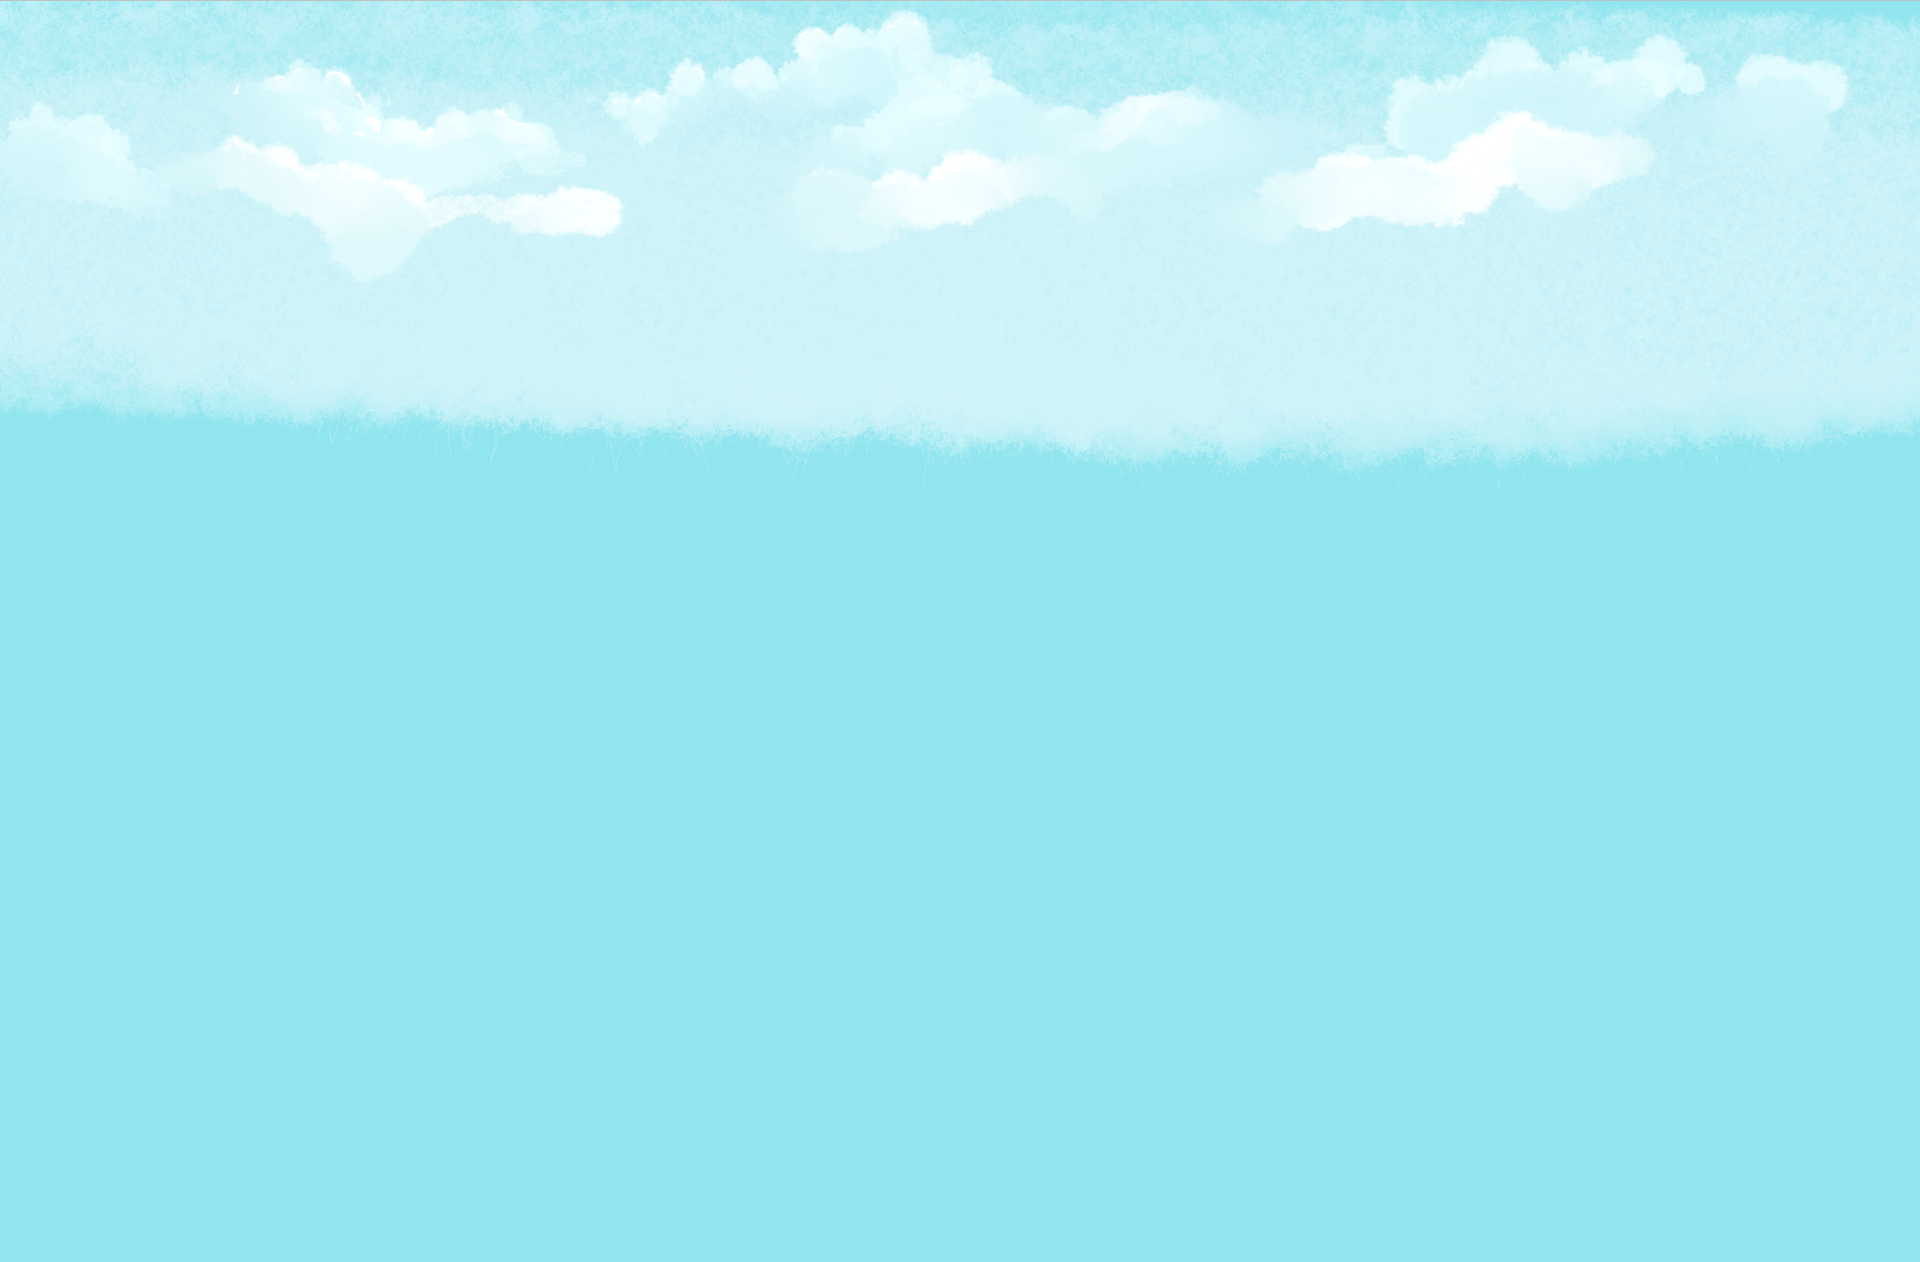
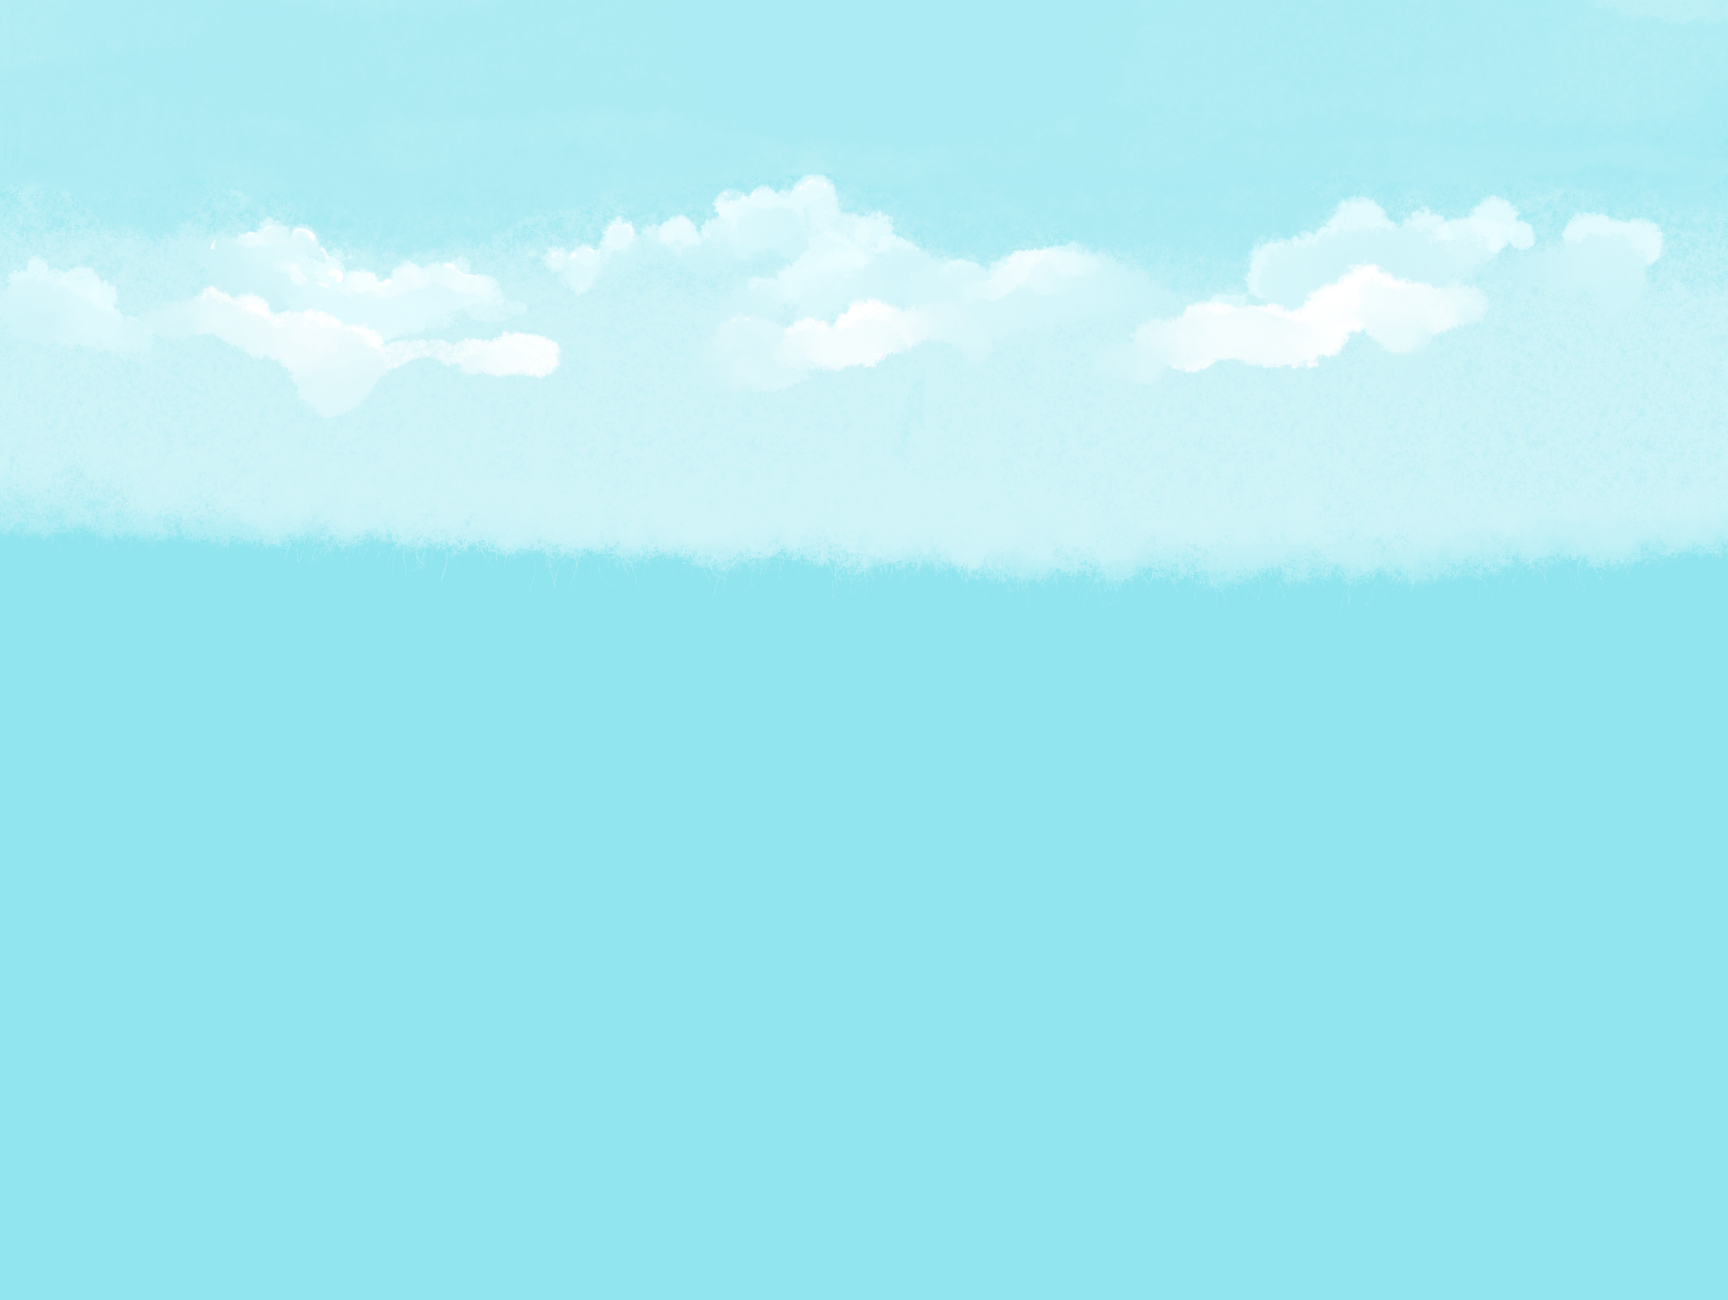
Parallax tweaks

Changed region(s): [[0.0, 0.0, 1.0, 0.4635], [0.0312, 0.2163, 0.0625, 0.2472]]

diff --git a/src/routes/+page.svelte b/src/routes/+page.svelte
@@ -1,19 +1,18 @@
 <script lang="ts">
-	import { onMount } from 'svelte';
-	import { fade } from 'svelte/transition';
-
 	let width = $state(1920);
 	let height = $state(1080);
 	let scroll = $state(0);
 
 	// onMount(() => {
 	// 	// give the browser a tick to render
-	// 	requestAnimationFrame(() => {
-	// 		window.scrollTo({
-	// 			top: window.innerHeight * 0.2, // for example, 80% down
-	// 			behavior: 'smooth'
+	// 	setTimeout(() => {
+	// 		requestAnimationFrame(() => {
+	// 			window.scrollTo({
+	// 				top: window.innerHeight * 0.2, // for example, 80% down
+	// 				behavior: 'smooth'
+	// 			});
 	// 		});
-	// 	});
+	// 	}, 1000);
 	// });
 
 	const configWidth = 2696;
@@ -23,7 +22,7 @@
 	const parallaxHeight = $derived(height);
 	const parallaxWidth = $derived(parallaxHeight * configAspectRatio);
 
-	const aw_shit = $derived(scroll / height > 0.6);
+	const aw_shit = $derived(scroll / height > 0.75);
 
 	const moo_start: [number, number] = $derived([-10, 20]);
 	const moo_end: [number, number] = $derived([80, -100]);
@@ -37,11 +36,8 @@
 		return [Lerp(from[0], to[0], t), Lerp(from[1], to[1], t)];
 	}
 
-	/*style:top="{Math.max(c.offset[1] * configAspectRatio + scroll * c.speed, 0)}px"*/
-
 	const parallaxConfig = {
-		'sky.png': { offset: [0, 0], max: [0, 0], speed: 0.99, visible: true, scale: 1.0 },
-		'far_mountains.png': { offset: [0, 0], max: [0, 0], speed: 0.95, visible: true, scale: 1.0 },
+        'far_mountains.png': { offset: [0, 0], max: [0, 0], speed: 0.93, visible: true, scale: 1.0 },
 		'near_mountains.png': { offset: [0, 0], max: [0, 0], speed: 0.9, visible: true, scale: 1.0 },
 		'trees.png': { offset: [0, 0], max: [0, 0], speed: 0.8, visible: true, scale: 1.0 },
 		'moo.png': { offset: moo_start, max: [0, 0], speed: 0.7, visible: true, scale: 1.0 },
@@ -53,8 +49,7 @@
 		'goldy.png': { offset: [0, 0], max: [0, 0], speed: 0.2, visible: true, scale: 1.0 },
 		'hen.png': { offset: [0, 0], max: [0, 0], speed: 0.1, visible: true, scale: 1.0 },
 		'aw_shit.png': { offset: [0, 0], max: [0, 0], speed: 0.1, visible: false, scale: 1.0 },
-		'bottom.png': { offset: [0, 200], max: [0, 50], speed: -0.4, visible: true, scale: 1.0 },
-		'aw_my_gawd.png': { offset: [0, 0], max: [0, 0], speed: 0.0, visible: true, scale: 1.0 }
+		'bottom.png': { offset: [0, 200], max: [0, 50], speed: -0.4, visible: true, scale: 1.0 }
 	};
 
 	$effect(() => {
@@ -66,8 +61,13 @@
 <svelte:window bind:outerWidth={width} bind:outerHeight={height} bind:scrollY={scroll} />
 
 <main class="main">
-	<div class="title" style:top="calc(25vh + {scroll * 0.5}px)">GoldenHorn '25</div>
 	<div class="parallax">
+		<div
+			class="sky"
+			style:background-image="url('./images/sky.png')"
+            style:background-size="{parallaxWidth}px {parallaxHeight}px"
+            style:top="calc({scroll * 1.0}px)"
+		></div>
 		{#each Object.entries(parallaxConfig) as [name, c], i}
 			<div
 				class="parallax-layer"
@@ -80,9 +80,26 @@
 					c.max[1]
 				)}px)"
 				style:scale={c.scale}
+				style:z-index={i}
 			></div>
 		{/each}
 	</div>
+	<div
+		class="parallax-layer"
+		style:background-image="url('./images/aw_my_gawd.png')"
+		style:background-size="{parallaxWidth}px {parallaxHeight}px"
+		style:height="100%"
+		style:top="var(--sky-height)"
+		style:z-index="14"
+	></div>
+
+	<img
+		class="title"
+		src="./images/logo.webp"
+		alt="depicts the official GoldenHorn logo of a black goat with long curved golden horns"
+		style:top="calc(20vh + {scroll * 0.6}px)"
+	/>
+
 	<div class="info">info</div>
 </main>
 
@@ -100,26 +117,33 @@
 	}
 
 	.title {
-		top: var(--sky-height);
 		display: flex;
 		position: absolute;
-		width: 100%;
-		align-items: center;
-		justify-content: center;
+		align-self: center;
+		width: 20rem;
 		z-index: 1;
 	}
 
 	.parallax {
 		width: 100%;
 		height: 140vh;
-		overflow: hidden;
 		position: relative;
+		overflow: hidden;
 	}
+
+    .sky {
+        position: absolute;
+        width: 100%;
+        height: 100%;
+        background-repeat: no-repeat;
+        background-position-x:center;
+    }
 
 	.parallax-layer {
 		width: 100%;
 		height: 100%;
 		position: absolute;
+		background-size: contain;
 		background-repeat: no-repeat;
 	}
 
@@ -127,6 +151,7 @@
 		background-color: rgb(68, 51, 27);
 		width: 100%;
 		min-height: 100vh;
+		z-index: 13;
 	}
 
 	@media (min-width: 1921px) {
